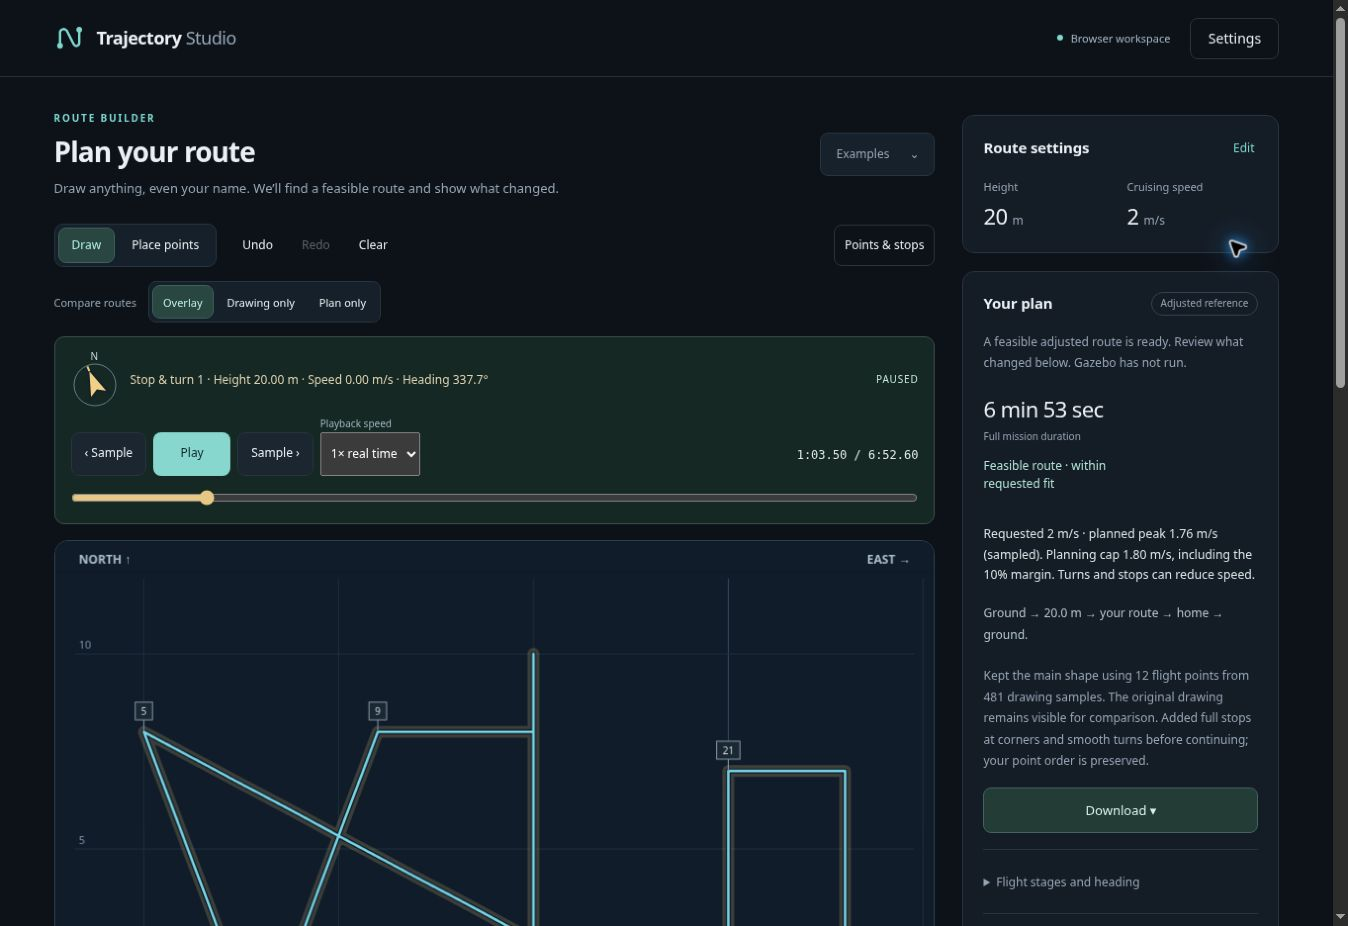
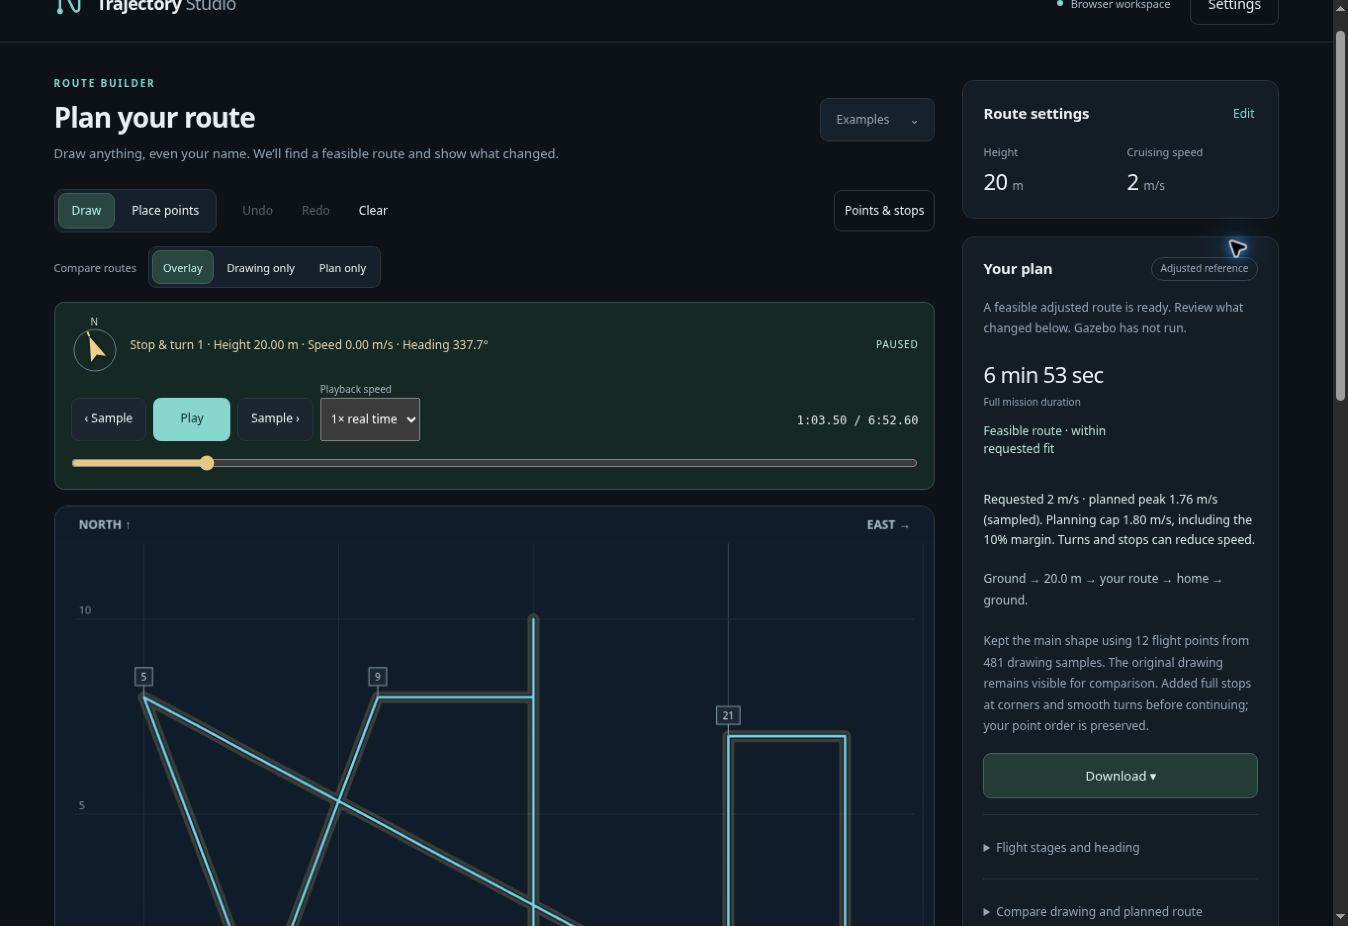
Keep speed policy consistent while custom aircraft setup changes
Handle unchecked model limits inside the refresh error boundary and refresh
the automatic cap after profile invalidation/checking. Extend the DOM regression
to cover incomplete setup and a changed aircraft ceiling. Recheck all 56 JS tests,
six release boundaries and real-browser default/custom recovery and handwriting.
Retain exact final build identity and verification limits.

diff --git a/web/speed-settings.js b/web/speed-settings.js
@@ -13,11 +13,11 @@
  const $=id=>document.getElementById(id);let legacy=false;
  function state(){return policy(Number($('targetSpeed').value),Number($('maxSpeed').value),root.PX4Editor?.aircraftSpeedLimit()||3,$('speedCapMode').value);}
  api.refresh=()=>{
-  const mode=$('speedCapMode').value,automatic=mode==='aircraft';
-  $('maxSpeed').readOnly=automatic;
-  if(automatic)$('maxSpeed').value=String(root.PX4Editor?.aircraftSpeedLimit()||3);
-  try{const s=state();$('speedInputHint').textContent=s.message+(s.conflict?' Resolve the custom cap conflict in Advanced settings before planning.':'');$('speedInputHint').classList.toggle('speed-warning',s.conflict);}
-  catch(error){$('speedInputHint').textContent=error.message;$('speedInputHint').classList.add('speed-warning');}
+  const automatic=$('speedCapMode').value==='aircraft';$('maxSpeed').readOnly=automatic;
+  try{
+   if(automatic)$('maxSpeed').value=String(root.PX4Editor?.aircraftSpeedLimit()||3);
+   const s=state();$('speedInputHint').textContent=s.message+(s.conflict?' Resolve the custom cap conflict in Advanced settings before planning.':'');$('speedInputHint').classList.toggle('speed-warning',s.conflict);
+  }catch(error){if(automatic)$('maxSpeed').value='';$('speedInputHint').textContent=error.message;$('speedInputHint').classList.add('speed-warning');}
   $('legacySpeedNotice').hidden=!legacy;
  };
  api.validate=()=>{api.refresh();const s=state();if(s.conflict)throw Error(`Requested cruise exceeds your custom Never exceed setting (${s.cap} m/s). Open Advanced settings: select Aircraft model cap, raise your custom cap, or lower requested cruise.`);return s;};

diff --git a/mission_planner/editor.html b/mission_planner/editor.html
@@ -69,6 +69,7 @@ let scale=7,drawingEnvelopeRadius=40; const origin=[450,315];
 const number=id=>{const raw=$(id).value.trim(),value=Number(raw);if(!raw||!Number.isFinite(value))throw Error(`Enter a finite number for ${window.document.querySelector('label[for="'+id+'"]')?.textContent||id}`);return value};
 function setStep(id){for(const key of ['stepDraw','stepReview','stepSimulate','stepCompare']){if(key===id)$(key).setAttribute('aria-current','step');else $(key).removeAttribute('aria-current')}}
 function invalidate(){
+  window.PX4SpeedSettings?.refresh();
   revision++; planningState(compiling?'stale':'draft');lastResult=null; window.PX4Motion?.clear(); window.PX4Simple?.clear();window.PX4Simple?.saveSoon(); window.PX4Compare?.clear();window.PX4MissionView?.clear(); $('confirmPlan').checked=false; $('confirmPlan').disabled=true;
   $('results').hidden=true; $('errorDetails').hidden=true;
   $('status').className='notice'; $('status').textContent='Draft. Plan and verify to see the smooth route. Simulation has not run.';

diff --git a/validation/2026-10-25-app-audit/README.md b/validation/2026-10-25-app-audit/README.md
@@ -1,7 +1,7 @@
 # App audit and offline release candidate — 25 October 2026
 
 Baseline Git commit: `7459067894ccfe1a3a7a19ef3a8c7bc45fee4021`.
-Final portable build ID: `227aedf03cd89957`.
+Final portable build ID: `df15b1363bd45ece`.
 Audit before implementation: `docs/app_release_audit.md` and
 `source-inventory-before.json` (188 active source/config/test files).
 
@@ -34,7 +34,7 @@ Final browser observations, retained in `browser-final-record.json`:
 - Exact sample 1271 at 63.50 s: N=0, E=0, Up=20 m, speed=0;
   heading 337.7 degrees, yaw rate -37.30 degrees/s. Stationary yaw is visible.
 - Height and 3D view controls operated. `final-app-summary.jpg` shows route,
-  speed explanation and paused turn; `final-app.jpg` shows height/phase evidence.
+  speed explanation and paused turn; `final-app.jpg` shows height/phase evidence from the preceding build.
 - No genuine measured track was loaded. No new tracking error or simulated
   landing/disarm claim is made.
 
@@ -84,3 +84,13 @@ explicit lower cap; heights 0.1, 1, 30, 50; five stops, reversal, hover, tiny de
 figure-eight, 10,000-point input, handwriting, envelope repair, impossible deadline,
 and one/two-lap circles. Full generated CSVs remain reproducible intermediates;
 tracked JSON results retain every reported metric and deterministic hash.
+
+Final UI-only follow-up: incomplete custom-aircraft setup no longer throws during
+speed-cap refresh. The hint shows the missing setup, clears an unavailable
+automatic ceiling, and updates after profile checking/recovery. Browser verified
+custom-unchecked → default-model recovery and handwriting again. The existing DOM
+initialization regression now tests the missing-model and changed-ceiling paths;
+all 56 JavaScript tests and six release boundary tests were rerun and passed.
+The complete 432-test Python result above precedes this UI-only follow-up; no
+Python planner/controller source changed afterward. Latest CI must be read from
+the final commit, not inferred from the preceding green or pending runs.

diff --git a/docs/app_release_audit.md b/docs/app_release_audit.md
@@ -71,3 +71,14 @@ is made for the whole app.
 
 Final evidence is in `validation/2026-10-25-app-audit/README.md`. No new simulation
 or physical flight was attempted. No plotting of synthetic measurements as truth.
+
+### Final settings review follow-up (APP-13)
+
+An unchecked custom model can make `selectedAircraftSetup` throw. The new speed
+refresh originally accessed it outside its error boundary, and completed profile
+checks did not immediately refresh the displayed automatic cap. Moved the entire
+lookup inside the controlled refresh, clear unavailable automatic caps, and
+refresh on editor invalidation. Browser verified the incomplete-model message
+and default-model recovery; DOM regression covers a model changing its ceiling.
+No physical limit or planner equation changed. This finding was discovered and
+resolved during final review, after the initial audit table.
